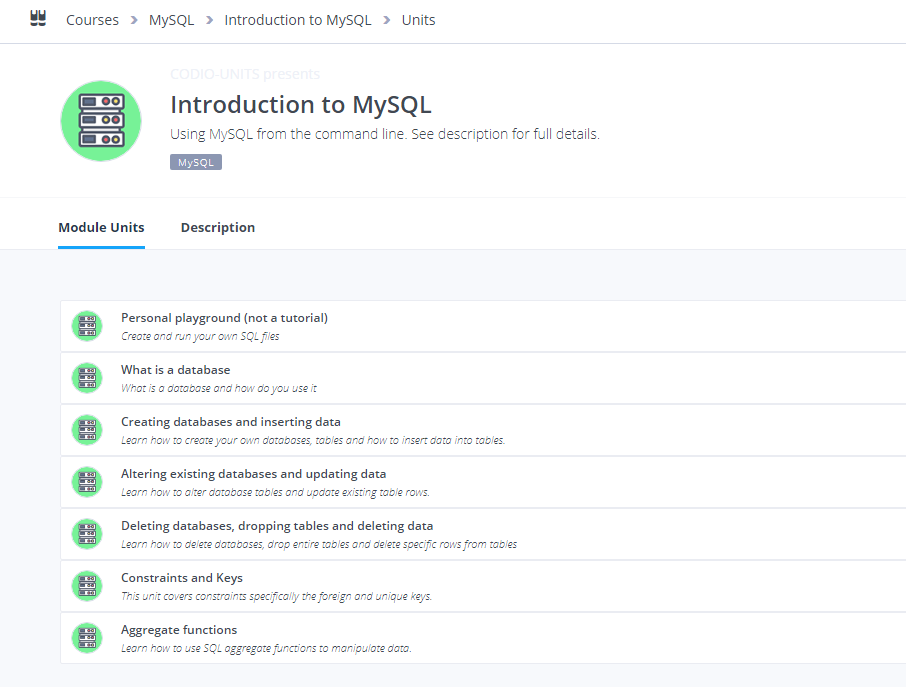
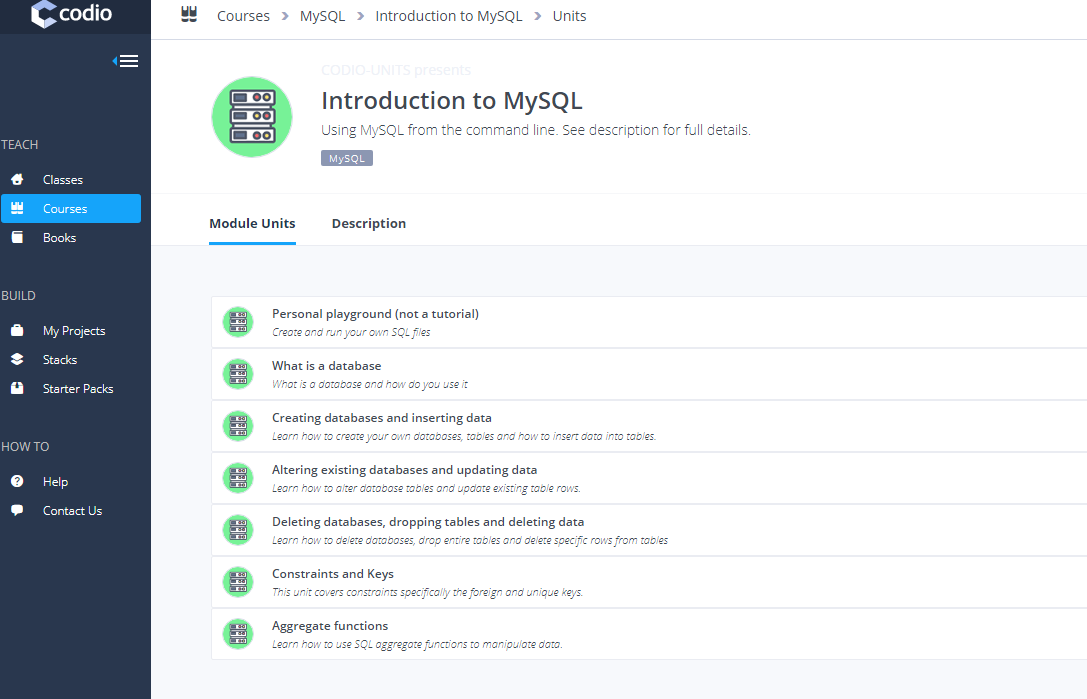
review guides references

diff --git a/source/docs/content/authoring/3ways.html.md b/source/docs/content/authoring/3ways.html.md
@@ -22,7 +22,7 @@ There are drawbacks to using projects to assign to students. As your list or pro
 ### Project units
 A project unit is essentially the same as a project. The only difference is that you project units are located in the courses area in the main Codio dashboard. Project units are very easy to locate as they are nicely stored under the course they belong to. You can also arrange your project units chronologically.
 
-[IAN - redo this please with the left menu visible]
+
 <img alt="Courses" src="/img/docs/courseslist.png" class="simple"/>
 
 You would typically use a project unit if either of the following apply.
@@ -42,7 +42,7 @@ A book addresses this issue by offering sophisticated table to contents manageme
 
 However, faculty will still want to teach a course based on a book. To do this, you use a course but rather than creating a project unit, you create a book based unit. This allows you to point to any parts of a book for that unit. Students can see the parts of the book that the unit related to in the table of contents. The course and class manager is also able to specify that parts of the book not mapped to by the unit either a) can be seen or b) cannot be seen.
 
-[IAN - books image please with left menu visible]
+<img alt="Books" src="/img/docs/booklist.png" class="simple"/>
 
 ### Book or project unit?
 It can still be a little confusing whether you should use a book based unit or a project unit, so here are some typical use cases.

diff --git a/source/docs/content/authoring/introduction.html.md b/source/docs/content/authoring/introduction.html.md
@@ -4,7 +4,7 @@ class_name: docs
 full_width: true
 ---
 
-Codio has powerful authoring capabilities that let you create rich tutorial content. Here are a few of the key features.
+Codio Guides is our tutorial authoring tool and has powerful capabilities that let you create rich tutorial content. Here are a few of the key features.
 
 - Each page of content can [control the layout of the IDE](/docs/content/authoring/layouts/)
 - [Open and close files, terminal windows and html page previews](/docs/content/authoring/settings-actions/open-tabs/)
@@ -18,6 +18,6 @@ You can launch the content authoring from
 - The menu, **Tools->Guide->Edit**
 - The button at the top of the file tree as shown below
 
-<img alt="Start Authoring" src="/img/docs/startguides.png" class="simple"/>
+<img alt="Start Authoring" src="/img/docs/guides/startguides.png" class="simple"/>
 
 

diff --git a/source/docs/content/authoring/index.html.md b/source/docs/content/authoring/index.html.md
@@ -1,10 +1,10 @@
 ---
-title: "Content Authoring"
+title: "Content Authoring with Guides"
 class_name: docs
 full_width: true
 ---
 
-Codio Books and Codio Authoring are powerful content authoring tools. Here are some key features.
+Codio Guides is a powerful content authoring tool. Here are some key features.
 
 - All content is written using simple markdown or HTML.
 - HTML snippets can be embedded into any markdown page.
@@ -17,5 +17,5 @@ Codio Books and Codio Authoring are powerful content authoring tools. Here are s
 - Choose from a selection of panel layouts for each page.
 - Include guidance material for teachers that is not visible to students.
 
-At the time of writing, the authoring table of contents management is different to books. However, we will unify this shortly.
+
 
